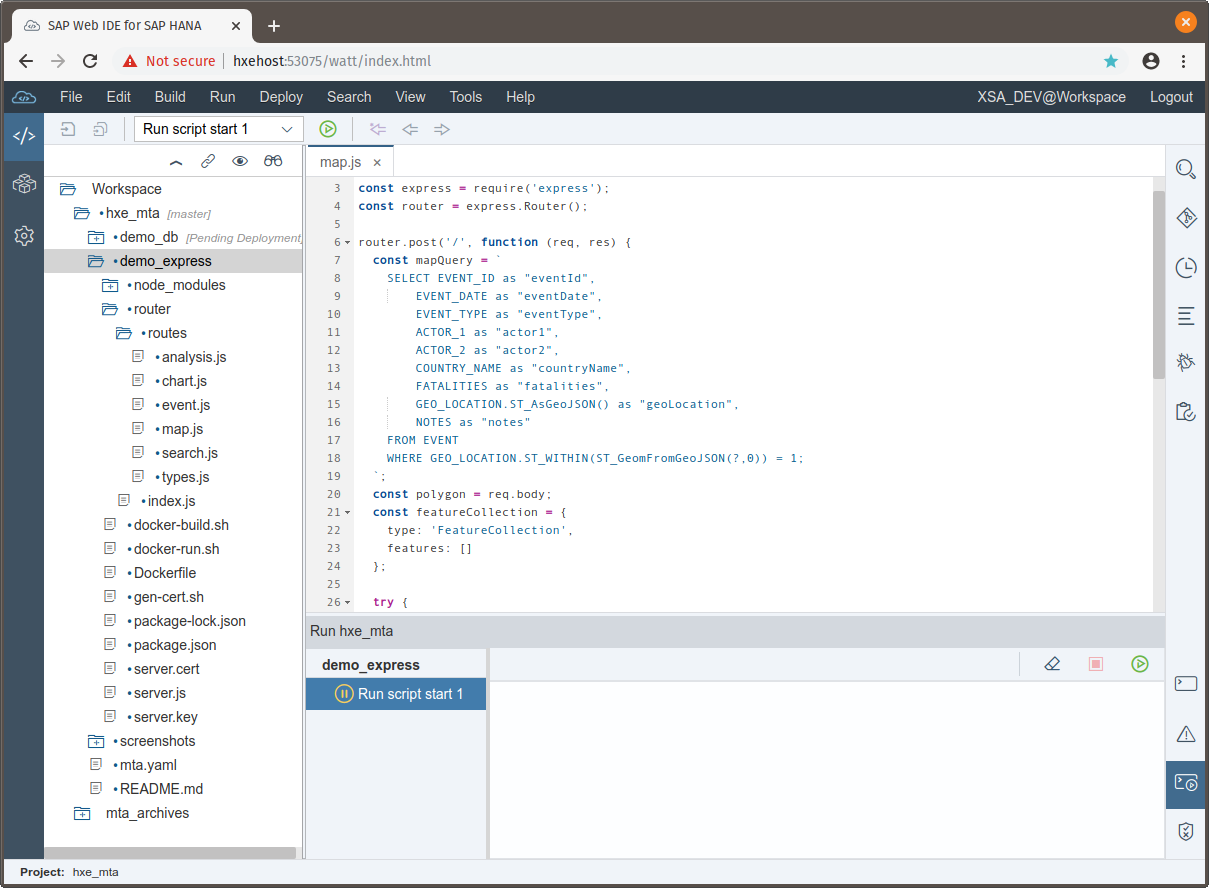
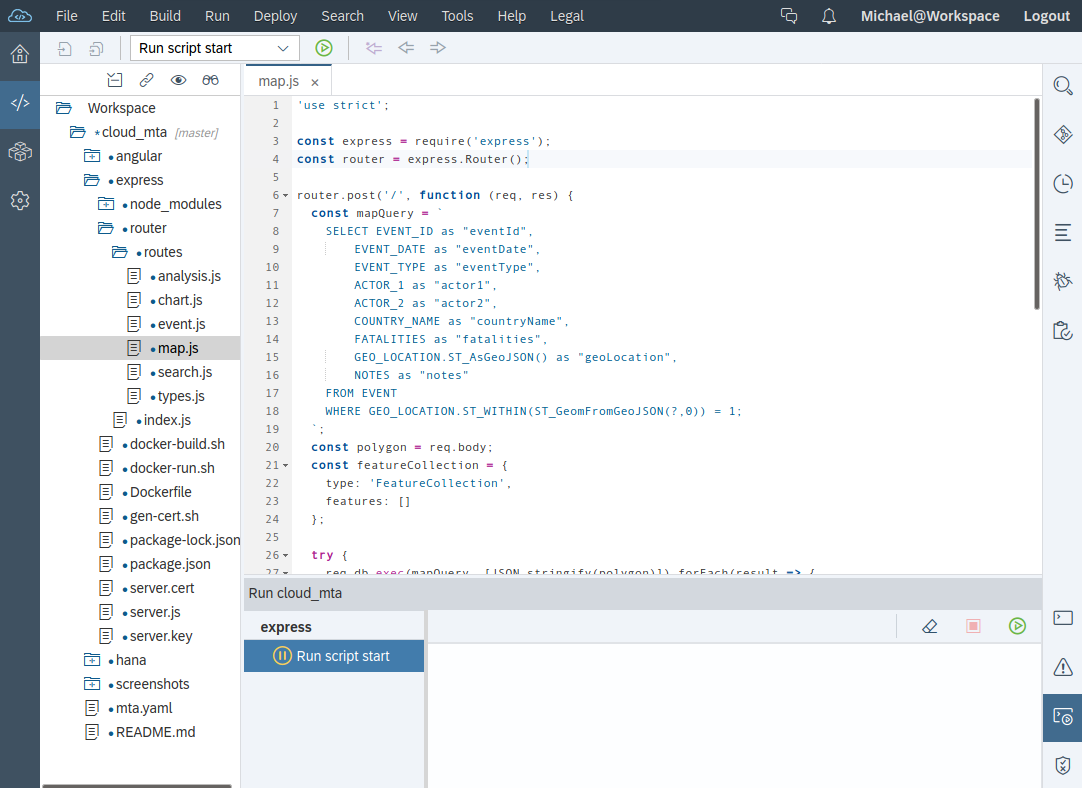
updates screenshots and README to match

Changed region(s): [[0.0, 0.0, 1.0, 1.0], [0.0, 0.2437, 0.0305, 0.2741]]

diff --git a/README.md b/README.md
@@ -9,15 +9,15 @@ This application was developed using [SAP HANA Express](https://developers.sap.c
 
 ## Import to WebIDE
 
-To run this project, use the git clone option in [SAP HANA webide](https://developers.sap.com/topics/sap-webide.html) to bring in the project via the git url `https://github.com/mechevarria/hxe_mta.git`
+To run this project, use the git clone option in [SAP HANA webide](https://developers.sap.com/topics/sap-webide.html) to bring in the project via the git url `https://github.com/mechevarria/cloud_mta.git`
 
 ![git.png](screenshots/git.png)
 
 ### Build the database module
 
-> right-click on **demo_db** -> build -> build
+> right-click on **hana** -> build -> build
 
-This will create the **EVENT** table, full-text index for search and load data from `demo_db/src/data/event.csv`
+This will create the **EVENT** table, full-text index for search and load data from `hana/src/data/event.csv`
 
 ### Build and deploy the node service
 
@@ -26,17 +26,23 @@ The REST API is implemented as a standard [Express](https://expressjs.com/) appl
 * The Express implementation gives you all the flexibility of the working just with Express but requires you to wire your own routes for services like in any Express application.
 
 
-> right-click on **demo_express** -> build -> build
+> right-click on **express** -> build -> build
 
 After building, deploy the application
 
-> right-click on **demo_express** -> Run -> Run as Node.js Application
+> right-click on **express** -> Run -> Run as Node.js Application
 
 Thats it! Your application will be running on the link shown in the console
 
 ### Build and deploy the Angular frontend
 
-> right-click on **demo_web** -> Run -> Run as Web Application
+Make sure the **Run as Web Application** is on **Cloud Foundry**, not Neo by checking the **Run Configurations** option
+
+> right-click on **angular** -> Run -> Run Configurations
+
+![web-run.png](screenshots/web-run.png)
+
+> right-click on **angular** -> Run -> Run as Web Application
 
 ![web.png](screenshots/web.png)
 
@@ -45,9 +51,9 @@ The assets in the `webapp` directory are the distribution output from the build 
 
 ## Develop locally or Run in Docker
 
-The `demo_express` node service can be developed locally or run in docker by adding **one** file.
+The `express` node service can be developed locally or run in docker by adding **one** file.
 
-The `demo_express` folder has a `Dockerfile` to run as a docker container
+The `express` folder has a `Dockerfile` to run as a docker container
 
 Create `default-services.json` inside the `/tmp` folder (this path can be changed in `server.js`). Add the following to the file
 
@@ -58,7 +64,7 @@ Create `default-services.json` inside the `/tmp` folder (this path can be change
 }
 ```
 
-> Do **not** check `default-services.json` into source control. This file will contain the HANA connection properties that are usually injected as an environment variable at runtime. `default-services.json` is already added to `.gitignore` in the `demo_express` module.
+> Do **not** check `default-services.json` into source control. This file will contain the HANA connection properties that are usually injected as an environment variable at runtime. `default-services.json` is already added to `.gitignore` in the `express` module.
 
 Get the connection properties logging into the [HANA Express Cockpit](https://developers.sap.com/tutorials/xsa-explore-basics.html) and copying the HANA service credentials
 
@@ -71,7 +77,7 @@ Get the connection properties logging into the [HANA Express Cockpit](https://de
 ```json
 {
   "hana": {
-    "schema": "DEMO_DB",
+    "schema": "hana",
     "hdi_password": "<YOUR_PASSWORD_VALUE>",
     "tenant_name": "HXE",
     "password": "<YOUR_PASSWORD_VALUE>",
@@ -84,9 +90,9 @@ Get the connection properties logging into the [HANA Express Cockpit](https://de
       }
     ],
     "host": "hxehost",
-    "hdi_user": "DEMO_DB_71OEEN6U5R5WKIHHNA7EJV95S_DT",
-    "user": "DEMO_DB_71OEEN6U5R5WKIHHNA7EJV95S_RT",
-    "url": "jdbc:sap://hxehost:39015/?currentschema=DEMO_DB"
+    "hdi_user": "hana_71OEEN6U5R5WKIHHNA7EJV95S_DT",
+    "user": "hana_71OEEN6U5R5WKIHHNA7EJV95S_RT",
+    "url": "jdbc:sap://hxehost:39015/?currentschema=hana"
   }
 }
 ```
